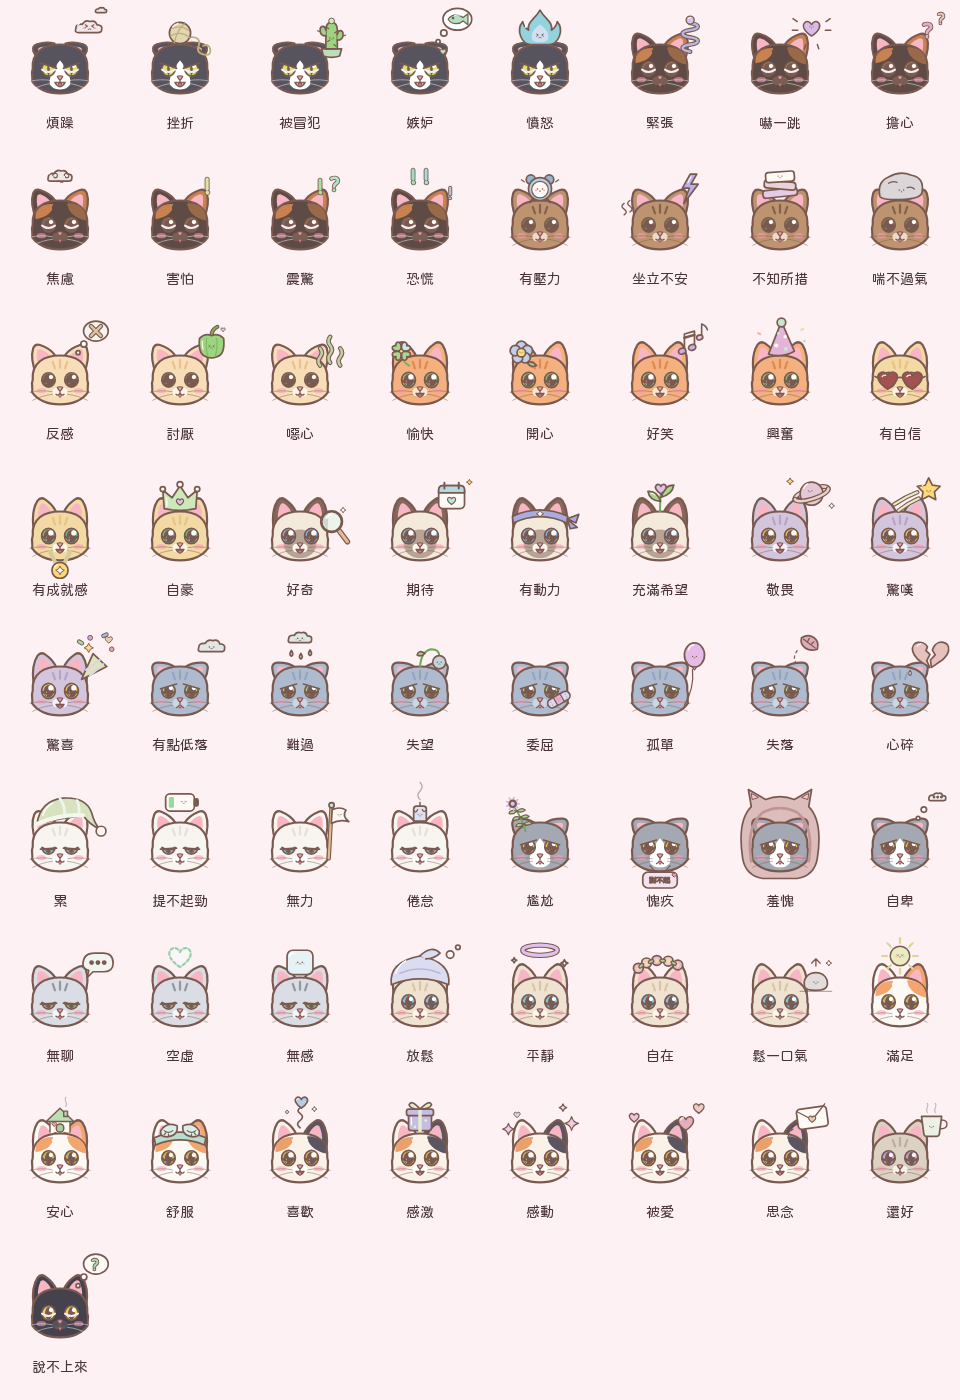
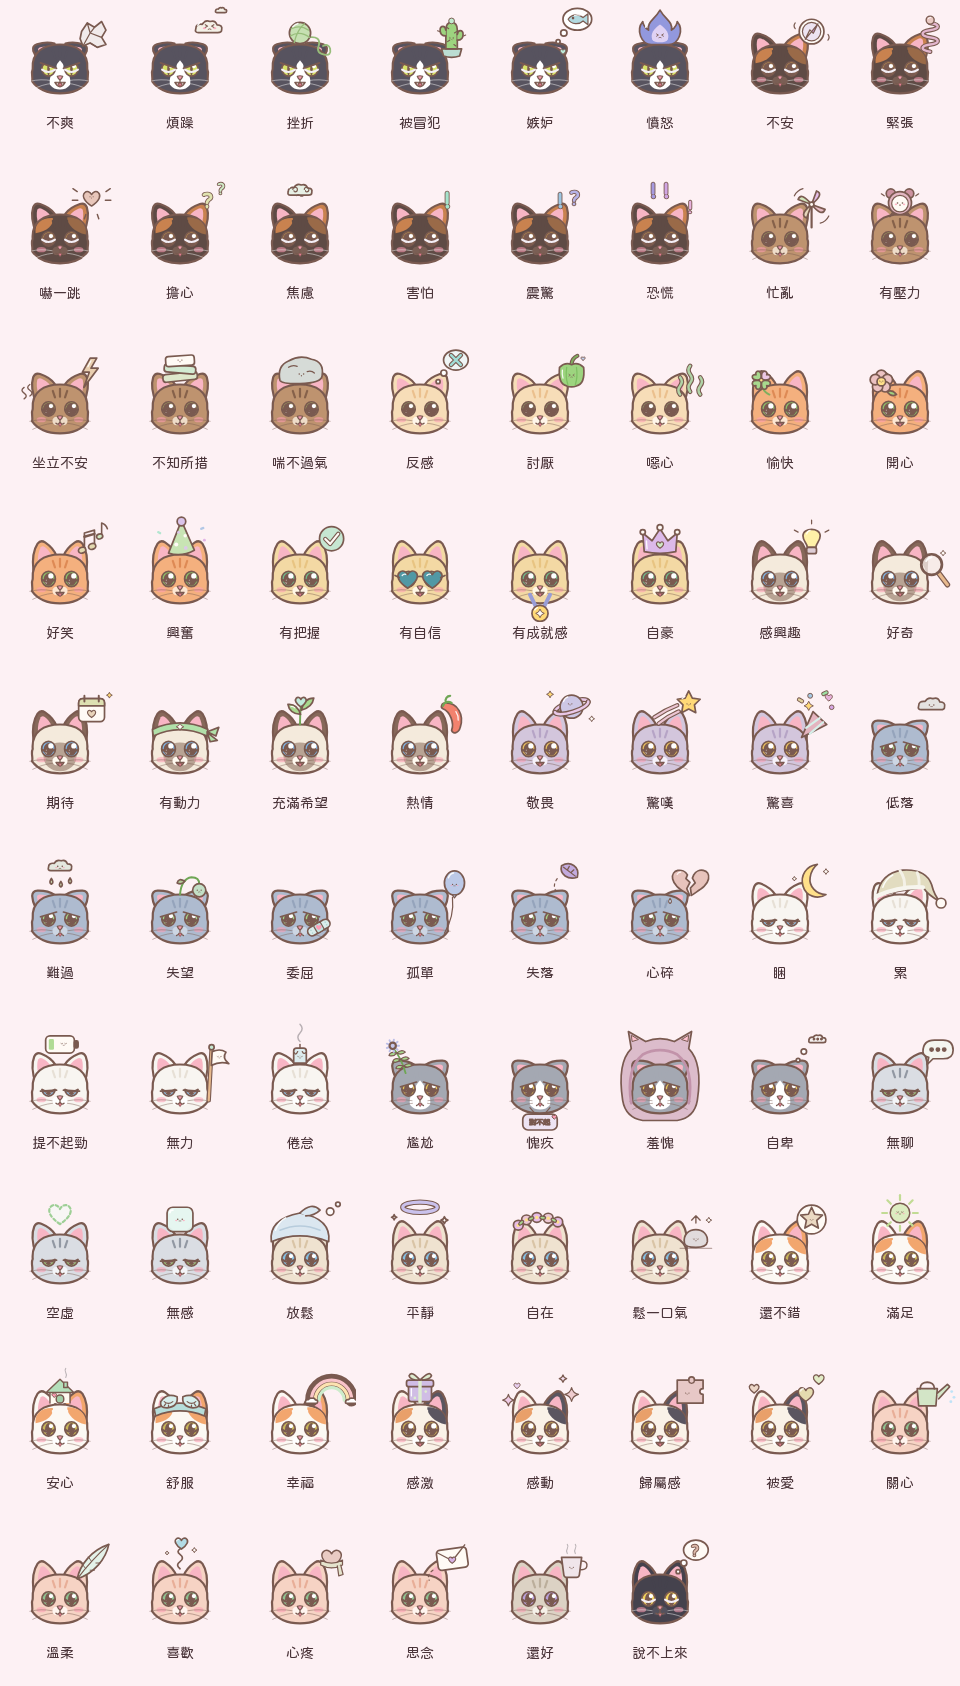
feat: add care family and milder feeling words

diff --git a/index.html b/index.html
@@ -1131,6 +1131,7 @@
           "id": "anger",
           "label": { "zh": "生氣", "en": "Anger" },
           "emotions": [
+            { "id": "irked", "label": { "zh": "不爽", "en": "Irked" }, "desc": "心裡不太痛快", "valence": -0.3, "arousal": 0.3 },
             { "id": "irritated", "label": { "zh": "煩躁", "en": "Irritated" }, "desc": "毛毛躁躁，一碰就炸", "valence": -0.4, "arousal": 0.5 },
             { "id": "frustrated", "label": { "zh": "挫折", "en": "Frustrated" }, "desc": "一股氣悶著，出不去", "valence": -0.6, "arousal": 0.5 },
             { "id": "offended", "label": { "zh": "被冒犯", "en": "Offended" }, "desc": "像被刺了一下", "valence": -0.6, "arousal": 0.6 },
@@ -1142,6 +1143,7 @@
           "id": "fear",
           "label": { "zh": "害怕", "en": "Fear" },
           "emotions": [
+            { "id": "uneasy", "label": { "zh": "不安", "en": "Uneasy" }, "desc": "隱隱約約的不踏實", "valence": -0.3, "arousal": 0.3 },
             { "id": "nervous", "label": { "zh": "緊張", "en": "Nervous" }, "desc": "緊繃，一刻都放不鬆", "valence": -0.3, "arousal": 0.6 },
             { "id": "startled", "label": { "zh": "嚇一跳", "en": "Startled" }, "desc": "突然被驚動", "valence": -0.4, "arousal": 0.8 },
             { "id": "worried", "label": { "zh": "擔心", "en": "Worried" }, "desc": "懸著，放不下", "valence": -0.5, "arousal": 0.4 },
@@ -1155,6 +1157,7 @@
           "id": "stress",
           "label": { "zh": "壓力", "en": "Stress" },
           "emotions": [
+            { "id": "busy", "label": { "zh": "忙亂", "en": "Hectic" }, "desc": "轉個不停", "valence": -0.2, "arousal": 0.4 },
             { "id": "pressured", "label": { "zh": "有壓力", "en": "Pressured" }, "desc": "像扛著重重的東西", "valence": -0.4, "arousal": 0.6 },
             { "id": "restless", "label": { "zh": "坐立不安", "en": "Restless" }, "desc": "坐也不是，站也不是", "valence": -0.3, "arousal": 0.7 },
             { "id": "overwhelmed", "label": { "zh": "不知所措", "en": "Overwhelmed" }, "desc": "亂糟糟的，快滿出來", "valence": -0.7, "arousal": 0.7 },
@@ -1191,6 +1194,7 @@
           "id": "confidence",
           "label": { "zh": "自信", "en": "Confidence" },
           "emotions": [
+            { "id": "assured", "label": { "zh": "有把握", "en": "Assured" }, "desc": "心裡有數", "valence": 0.4, "arousal": 0.3 },
             { "id": "confident", "label": { "zh": "有自信", "en": "Confident" }, "desc": "穩穩的，有底氣", "valence": 0.6, "arousal": 0.4 },
             { "id": "accomplished", "label": { "zh": "有成就感", "en": "Accomplished" }, "desc": "充實、有份量", "valence": 0.8, "arousal": 0.5 },
             { "id": "proud", "label": { "zh": "自豪", "en": "Proud" }, "desc": "覺得光榮", "valence": 0.8, "arousal": 0.6 }
@@ -1200,10 +1204,12 @@
           "id": "engagement",
           "label": { "zh": "投入", "en": "Engagement" },
           "emotions": [
+            { "id": "interested", "label": { "zh": "感興趣", "en": "Interested" }, "desc": "被吸引住了", "valence": 0.3, "arousal": 0.3 },
             { "id": "curious", "label": { "zh": "好奇", "en": "Curious" }, "desc": "想湊近看看，想知道更多", "valence": 0.5, "arousal": 0.5 },
             { "id": "anticipating", "label": { "zh": "期待", "en": "Looking forward" }, "desc": "雀躍，等不及了", "valence": 0.6, "arousal": 0.5 },
             { "id": "motivated", "label": { "zh": "有動力", "en": "Motivated" }, "desc": "躍躍欲試", "valence": 0.6, "arousal": 0.6 },
-            { "id": "hopeful", "label": { "zh": "充滿希望", "en": "Hopeful" }, "desc": "有一點光透進來", "valence": 0.6, "arousal": 0.3 }
+            { "id": "hopeful", "label": { "zh": "充滿希望", "en": "Hopeful" }, "desc": "有一點光透進來", "valence": 0.6, "arousal": 0.3 },
+            { "id": "passionate", "label": { "zh": "熱情", "en": "Passionate" }, "desc": "熱騰騰的，全心投入", "valence": 0.7, "arousal": 0.8 }
           ]
         },
         {
@@ -1226,7 +1232,7 @@
           "id": "sadness",
           "label": { "zh": "悲傷", "en": "Sadness" },
           "emotions": [
-            { "id": "down", "label": { "zh": "有點低落", "en": "A bit down" }, "desc": "情緒往下掉了一點", "valence": -0.3, "arousal": -0.2 },
+            { "id": "down", "label": { "zh": "低落", "en": "Low" }, "desc": "情緒往下掉了一點", "valence": -0.3, "arousal": -0.2 },
             { "id": "sad", "label": { "zh": "難過", "en": "Sad" }, "desc": "沉甸甸的，很傷心", "valence": -0.7, "arousal": -0.3 },
             { "id": "disappointed", "label": { "zh": "失望", "en": "Disappointed" }, "desc": "一下子洩了氣", "valence": -0.6, "arousal": -0.2 },
             { "id": "wronged", "label": { "zh": "委屈", "en": "Wronged" }, "desc": "受了傷，又說不出口", "valence": -0.7, "arousal": -0.1 },
@@ -1239,6 +1245,7 @@
           "id": "exhaustion",
           "label": { "zh": "疲憊", "en": "Exhaustion" },
           "emotions": [
+            { "id": "sleepy", "label": { "zh": "睏", "en": "Sleepy" }, "desc": "只想睡一覺", "valence": -0.1, "arousal": -0.5 },
             { "id": "tired", "label": { "zh": "累", "en": "Tired" }, "desc": "沒有力氣，想休息", "valence": -0.3, "arousal": -0.7 },
             { "id": "unmotivated", "label": { "zh": "提不起勁", "en": "Unmotivated" }, "desc": "懶洋洋，動不起來", "valence": -0.4, "arousal": -0.6 },
             { "id": "helpless", "label": { "zh": "無力", "en": "Helpless" }, "desc": "有心無力", "valence": -0.7, "arousal": -0.6 },
@@ -1285,19 +1292,31 @@
           "id": "contentment",
           "label": { "zh": "滿足", "en": "Contentment" },
           "emotions": [
+            { "id": "alright", "label": { "zh": "還不錯", "en": "Alright" }, "desc": "小小的滿意", "valence": 0.3, "arousal": -0.1 },
             { "id": "content", "label": { "zh": "滿足", "en": "Content" }, "desc": "剛剛好，很飽足", "valence": 0.7, "arousal": -0.3 },
             { "id": "secure", "label": { "zh": "安心", "en": "Secure" }, "desc": "踏實，很放心", "valence": 0.6, "arousal": -0.5 },
-            { "id": "comfortable", "label": { "zh": "舒服", "en": "Comfortable" }, "desc": "暖呼呼的，很舒適", "valence": 0.5, "arousal": -0.5 }
+            { "id": "comfortable", "label": { "zh": "舒服", "en": "Comfortable" }, "desc": "暖呼呼的，很舒適", "valence": 0.5, "arousal": -0.5 },
+            { "id": "happiness", "label": { "zh": "幸福", "en": "Happy inside" }, "desc": "整個世界都柔和了", "valence": 0.95, "arousal": -0.2 }
           ]
         },
         {
           "id": "connection",
           "label": { "zh": "連結", "en": "Connection" },
           "emotions": [
-            { "id": "fond", "label": { "zh": "喜歡", "en": "Fond" }, "desc": "甜甜的，有好感", "valence": 0.7, "arousal": 0.2 },
             { "id": "grateful", "label": { "zh": "感激", "en": "Grateful" }, "desc": "溫暖，想說聲謝謝", "valence": 0.7, "arousal": -0.1 },
             { "id": "touched", "label": { "zh": "感動", "en": "Touched" }, "desc": "被輕輕碰到最軟的地方", "valence": 0.7, "arousal": 0.1 },
-            { "id": "loved", "label": { "zh": "被愛", "en": "Loved" }, "desc": "被在乎、被接住", "valence": 0.9, "arousal": -0.1 },
+            { "id": "belonging", "label": { "zh": "歸屬感", "en": "Belonging" }, "desc": "有一個屬於自己的位置", "valence": 0.7, "arousal": -0.2 },
+            { "id": "loved", "label": { "zh": "被愛", "en": "Loved" }, "desc": "被在乎、被接住", "valence": 0.9, "arousal": -0.1 }
+          ]
+        },
+        {
+          "id": "care",
+          "label": { "zh": "在乎", "en": "Care" },
+          "emotions": [
+            { "id": "caring", "label": { "zh": "關心", "en": "Caring" }, "desc": "放在心上，想知道對方好不好", "valence": 0.5, "arousal": 0.1 },
+            { "id": "gentle", "label": { "zh": "溫柔", "en": "Tender" }, "desc": "輕輕的、軟軟的", "valence": 0.6, "arousal": -0.4 },
+            { "id": "fond", "label": { "zh": "喜歡", "en": "Fond" }, "desc": "甜甜的，有好感", "valence": 0.7, "arousal": 0.2 },
+            { "id": "heartache", "label": { "zh": "心疼", "en": "Aching for someone" }, "desc": "看著對方難受，自己也跟著痛", "valence": -0.1, "arousal": -0.1 },
             { "id": "longing", "label": { "zh": "思念", "en": "Longing" }, "desc": "掛念著，又甜又酸", "valence": 0.1, "arousal": -0.3 }
           ]
         }
@@ -1332,6 +1351,36 @@ const MEOW_CLIPS = [
 // 畫面上的中文照這張對照表換成英文；之後才出現的字（對話、日曆…）也會自動換。
 // 情緒詞的英文直接用 mood.json 裡的 label.en；你自己寫的心情內容不會被翻譯。
 const EN = {
+  "心裡不太痛快": "Not quite pleased",
+  "隱隱約約的不踏實": "A faint unsettled feeling",
+  "轉個不停": "Spinning nonstop",
+  "只想睡一覺": "Just want to sleep",
+  "心裡有數": "I know where I stand",
+  "被吸引住了": "Drawn in",
+  "熱騰騰的，全心投入": "Fired up, all in",
+  "小小的滿意": "A little satisfied",
+  "整個世界都柔和了": "The whole world feels soft",
+  "有一個屬於自己的位置": "Having a place of my own",
+  "放在心上，想知道對方好不好": "Holding someone in mind, wondering how they are",
+  "輕輕的、軟軟的": "Light and soft",
+  "看著對方難受，自己也跟著痛": "Hurting along with someone who's hurting",
+  "揉皺的紙團": "Crumpled paper",
+  "晃動的指南針": "Wobbly compass",
+  "轉不停的小風車": "Spinning pinwheel",
+  "小月亮": "Little moon",
+  "勾勾": "Check mark",
+  "小燈泡": "Light bulb",
+  "小辣椒": "Little chili",
+  "星星貼紙": "Star sticker",
+  "小彩虹": "Little rainbow",
+  "拼上的拼圖": "Fitting puzzle piece",
+  "小澆水壺": "Watering can",
+  "羽毛": "Feather",
+  "圍著圍巾的心": "Heart in a scarf",
+  "蜜桃": "Peach",
+  "好有歸屬感": "I belong here",
+  "好在乎…": "I care so much…",
+  "想守護": "I want to protect",
   "哪一類？": "Which kind?",
   "自己的詞": "My own words",
   "＋ 寫下自己的詞": "+ Write my own word",
@@ -1850,7 +1899,7 @@ const MOODS = {
              acts: { walk: 4, sit: 1, groom: 1 }, speed: 80 },
 };
 const CALICO_DARK = "#5A5560", CALICO_ORANGE = "#E9A06A";
-// ---------- 花色：17 種，按情緒家族決定 ----------
+// ---------- 花色：18 種，按情緒家族決定 ----------
 // fur 底色、stripe 虎斑紋（跟 fur 一樣就是沒有斑紋）、chest 胸口和嘴邊、eye 眼睛
 // patches：兩塊斑（三花、玳瑁、橘白）、earR：右耳的顏色、point：暹羅的重點色（耳朵、臉、腳、尾巴）
 // muzzle：白色嘴套、paw：腳的顏色、whisker／eyeLine：深色毛的貓用淺色鬍鬚和眼線
@@ -1871,6 +1920,7 @@ const COATS = {
   cream:      { name: "奶油", fur: "#F7DDB8", stripe: "#EBC08E", chest: "#FFF6EA", eye: "#9FC27A" },
   taro:       { name: "芋頭", fur: "#D3C6DC", stripe: "#B6A4C6", chest: "#F6F1F9", eye: "#EDC45E" },
   oat:        { name: "燕麥", fur: "#DCD2C4", stripe: "#BBAE9B", chest: "#F5F0E8", eye: "#B9A0D8" },
+  peach:      { name: "蜜桃", fur: "#F6D3C4", stripe: "#E8AE98", chest: "#FFF5EF", eye: "#8FC08F" },
   black:      { name: "煤球", fur: "#45424D", stripe: "#45424D", chest: "#55525D", eye: "#F0D25C", whisker: "#fff", eyeLine: "#F3EEF5" },
 };
 const coatOf = k => COATS[k] || MOODS[k] || COATS.calm;
@@ -1879,7 +1929,7 @@ const recCoat = r => FAMILY_COAT[typeof EMO !== "undefined" && EMO[emoOf(r)[0]]?
 const emoCoat = id => FAMILY_COAT[EMO[id]?.family] || "calm";
 const FAMILY_COAT = { joy: "happy", confidence: "goldie", engagement: "siamese", connection: "anxious", calm: "calm", contentment: "orangewhite",
   sadness: "sad", exhaustion: "tired", self_conscious: "graywhite", numbness: "silver", anger: "angry", fear: "tortie", stress: "brown", unsure: "black",
-  disgust: "cream", wonder: "taro", neutral: "oat" };
+  disgust: "cream", wonder: "taro", neutral: "oat", care: "peach" };
 
 // 頭的位置（各個姿勢）：x, y 位移與旋轉角度（以頭中心 100,42 為軸）
 // 胖胖版的頭：以下巴 (100, 58) 為中心放大 1.16 倍，再往下 7
@@ -2366,12 +2416,61 @@ const ACC = {
   okay: h => `<g ${AK()}><path d="M115 13 H129 L127.4 25.4 Q127 27 125.4 27 H118.6 Q117 27 116.6 25.4Z" fill="${hsl(h, 45, 90)}"/>
     <path d="M129 15.6 Q133.4 15.6 132.6 19.4 Q132 22 128.2 21.6" fill="none" stroke-width="1.2"/></g>${miniFace(122, 20, .55, "flat", false)}
     <path d="M119 10.4 q-1 -2 0 -3.4 q1 -1.6 0 -3 M124.6 10.4 q-1 -2 0 -3.4 q1 -1.6 0 -3" fill="none" stroke="#bdb5b8" stroke-width=".9" stroke-linecap="round"/>`,
+  // 新增的淡的詞、在乎
+  // 不爽：揉皺的紙團
+  irked: h => `<g ${AK()}><path d="M115 16 L119 10 L124 13 L129 9 L132 15 L129 20 L132 25 L126 27 L121 24 L116 26 L114 21Z" fill="${hsl(h, 30, 92)}"/>
+    <path d="M119 10 L121 17 L129 20 M124 13 L121 17 L116 26 M126 27 L121 24" fill="none" stroke-width="1"/></g>`,
+  // 不安：晃來晃去的指南針
+  uneasy: h => `<g ${AK()}><circle cx="122" cy="16" r="8.6" fill="#fffaf5"/><circle cx="122" cy="16" r="6.4" fill="${hsl(h, 50, 90)}" stroke-width="1"/>
+    <path d="M122 16 L126.4 10.6 L123.2 17.2Z" fill="${hsl(h, 80, 70)}" stroke-width="1"/><path d="M122 16 L117.6 21.4 L120.8 14.8Z" fill="#fffaf5" stroke-width="1"/></g>
+    <path d="M110.6 10 q-1.6 2 0 4 M133.4 18 q1.6 2 0 4" fill="none" ${AK(1)}/>`,
+  // 忙亂：轉不停的小風車
+  busy: h => `<g ${AK()}><path d="M122 18 L122 34" fill="none" stroke-width="1.8"/>
+    ${[0, 90, 180, 270].map((r, i) => `<path d="M122 18 L122 8 Q128 8 122 18Z" fill="${hsl(h + i * 50, 75, 78)}" transform="rotate(${r + 20} 122 18)"/>`).join("")}
+    <circle cx="122" cy="18" r="1.6" fill="#fffaf5"/></g><path d="M110 12 q2 -4 6 -5 M134 26 q-2 4 -6 5" fill="none" ${AK(1)}/>`,
+  // 睏：一彎小月亮
+  sleepy: h => `<g ${AK()}><path d="M126 4 C118 5 114 12 116 19 C118 26 126 29 132 25 C125 25 120 19 121 13 C121.6 9 123.4 6 126 4Z" fill="#ffe08a"/></g>
+    ${sparkle(132, 9, .5, "#fffaf5").replace("<path", `<path ${AK(.8)}`)}${sparkle(110, 14, .4, "#fffaf5").replace("<path", `<path ${AK(.8)}`)}`,
+  // 有把握：一個勾勾
+  assured: h => `<g ${AK()}><circle cx="122" cy="14" r="8.4" fill="${hsl(h, 65, 80)}"/></g>
+    <path d="M117.6 14.2 L121 17.6 L126.6 10.6" fill="none" stroke="#4a3439" stroke-width="3.6" stroke-linecap="round" stroke-linejoin="round"/>
+    <path d="M117.6 14.2 L121 17.6 L126.6 10.6" fill="none" stroke="#fffaf5" stroke-width="1.8" stroke-linecap="round" stroke-linejoin="round"/>`,
+  // 感興趣：亮起來的小燈泡
+  interested: h => `<g ${AK()}><path d="M116 12 C116 6 128 6 128 12 C128 16 125 17 125 20 H119 C119 17 116 16 116 12Z" fill="#fff1a8"/>
+    <rect x="118.6" y="20" width="6.8" height="4.4" rx="1.4" fill="${hsl(h, 30, 80)}"/></g>
+    <path d="M110 8 L112.6 9.4 M134 8 L131.4 9.4 M122 1 V3.6" fill="none" ${AK(1)}/>${shine("M118.6 10.6 Q119 8.6 121 8.2", 1)}`,
+  // 熱情：一根小辣椒
+  passionate: h => `<g ${AK()}><path d="M118 10 C126 10 131 18 128 27 C127 31 123 32 122 29 C124 24 121 16 116 14 C114 13 115 10 118 10Z" fill="#f2826e"/>
+    <path d="M118 10 C117 7 119 5 121 5 M116 12 C117 9 120 8.6 122 10" fill="none" stroke="#6fa655" stroke-width="1.8"/></g>${shine("M125 16 Q127 19 126.6 22", 1)}`,
+  // 還不錯：小星星貼紙
+  alright: h => { const st = [...Array(10)].map((_, i) => { const a = (i * 36 - 90) * Math.PI / 180, r = i % 2 ? 3.8 : 8; return `${i ? "L" : "M"}${(122 + r * Math.cos(a)).toFixed(1)} ${(14 + r * Math.sin(a)).toFixed(1)}`; }).join(" ") + "Z";
+    return `<g ${AK()}><circle cx="122" cy="14.6" r="10" fill="#fffaf5"/><path d="${st}" fill="${hsl(h, 80, 80)}"/></g>${miniFace(122, 14.6, .45, "smile", false)}`; },
+  // 幸福：一道小彩虹
+  happiness: h => `<g fill="none" stroke-linecap="round">
+    <path d="M108 22 A14 14 0 0 1 136 22" stroke="#4a3439" stroke-width="10.4"/>
+    <path d="M108 22 A14 14 0 0 1 136 22" stroke="#f9c4c9" stroke-width="2.6"/><path d="M110.6 22 A11.4 11.4 0 0 1 133.4 22" stroke="#fde2b0" stroke-width="2.6"/>
+    <path d="M113.2 22 A8.8 8.8 0 0 1 130.8 22" stroke="#cdeccb" stroke-width="2.6"/></g>
+    <g ${AK()}><path d="${cloudPath(108, 23, .42)}" fill="#fff"/><path d="${cloudPath(136, 23, .42)}" fill="#fff"/></g>`,
+  // 歸屬感：剛好拼上的拼圖
+  belonging: h => `<g ${AK()}><path d="M112 8 H120 C120 5 124 5 124 8 H130 V14 C127 14 127 18 130 18 V24 H112Z" fill="${hsl(h, 65, 80)}"/>
+    <path d="M124 8 C124 11 120 11 120 8" fill="none" stroke-width="1"/></g>${miniFace(119, 17, .55, "smile", false)}`,
+  // 關心：小澆水壺
+  caring: h => `<g ${AK()}><path d="M112 14 H126 L125 26 H113Z" fill="${hsl(h, 60, 80)}"/><path d="M126 17 L133 11 L134.6 12.6 L127 21" fill="${hsl(h, 60, 80)}"/>
+    <path d="M114 14 C114 8 124 8 124 14" fill="none" stroke-width="1.6"/></g>
+    <g fill="#bfe3f7" stroke="none"><circle cx="136" cy="16" r="1"/><circle cx="137.6" cy="20" r="1"/><circle cx="135.4" cy="23" r="1"/></g>`,
+  // 溫柔：一根輕輕的羽毛
+  gentle: h => `<g ${AK()}><path d="M112 28 C114 18 122 8 134 4 C132 14 124 24 112 28Z" fill="${hsl(h, 55, 90)}"/>
+    <path d="M112 28 C118 20 124 13 134 4" fill="none" stroke-width="1"/>
+    <path d="M118 21 L115.6 18 M122 16 L119.8 12.8 M121 22 L124 22 M125 17 L128 17" fill="none" stroke-width=".8"/></g>`,
+  // 心疼：圍著圍巾的心
+  heartache: h => `<path ${AK(1.2)} d="${heartPath(122, 14, 1.9)}" fill="${hsl(335 + h % 40, 75, 80)}"/>
+    <g ${AK(1)}><path d="M114.4 15 Q122 19 129.6 15 L129.6 18.4 Q122 22.4 114.4 18.4Z" fill="${hsl(h + 180, 50, 82)}"/><path d="M126 19 L127 26 L130 25 L128.4 18.4" fill="${hsl(h + 180, 50, 82)}"/></g>`,
   unsure: h => `<g ${AK()}><circle cx="112.6" cy="23" r="1.4" fill="#fff"/><circle cx="116.6" cy="17" r="2.1" fill="#fff"/><ellipse cx="125" cy="8" rx="8.6" ry="7" fill="#fffaf5"/></g>${puffy(125, 12, "?", 10, hsl(h, 70, 72))}${shine("M119.4 6 Q120 3.6 122.4 3")}`,
 };
 // 家族（舊記錄用）→ 代表的配件
 const FAMILY_ACC = { anger: "offended", fear: "nervous", stress: "pressured", joy: "happy", confidence: "proud", engagement: "curious",
   sadness: "sad", exhaustion: "tired", self_conscious: "embarrassed", numbness: "numb", calm: "peaceful", contentment: "content", connection: "loved",
-  disgust: "dislike", wonder: "amazed", neutral: "okay" };
+  disgust: "dislike", wonder: "amazed", neutral: "okay", care: "caring" };
 // 插畫風：貓咪和配件的線條換成溫暖的棕色、細一點（跟房間家具同一種畫風）
 const ACC_LINE = "#7a5a50";
 const illus = svg => svg.replace(/#4a3439/gi, ACC_LINE).replace(/stroke-width="([\d.]+)"/g, (m, w) => `stroke-width="${(+w * .85).toFixed(2)}"`);
@@ -2398,7 +2497,8 @@ const ACC_NAME = {
   grateful: "禮物", touched: "閃閃", loved: "愛心", unsure: "問號泡泡",
   averse: "叉叉泡泡", dislike: "青椒", disgusted: "怪味道", awe: "小星球", amazed: "流星", pleasantly_surprised: "拉炮",
   startled: "跳起來的心", shocked: "驚嘆號和問號", suffocated: "大石頭", cheerful: "四葉草", anticipating: "圈起來的日子",
-  down: "小烏雲", heartbroken: "裂開的心", relieved: "放下的石頭", fond: "愛心天線", longing: "一封信", okay: "一杯溫開水",
+  down: "小烏雲", irked: "揉皺的紙團", uneasy: "晃動的指南針", busy: "轉不停的小風車", sleepy: "小月亮", assured: "勾勾",
+  interested: "小燈泡", passionate: "小辣椒", alright: "星星貼紙", happiness: "小彩虹", belonging: "拼上的拼圖", caring: "小澆水壺", gentle: "羽毛", heartache: "圍著圍巾的心", heartbroken: "裂開的心", relieved: "放下的石頭", fond: "愛心天線", longing: "一封信", okay: "一杯溫開水",
 };
 const accName = id => ACC_NAME[id] || ACC_NAME[FAMILY_ACC[id]] || ACC_NAME[FAMILY_ACC[EMO[id]?.family]] || "";
 // 沒有存顏色的舊記錄：用內容算出一個固定的顏色
@@ -3185,7 +3285,8 @@ const FAMILY_TALK = {
   numbness: ["什麼都感覺不到", "空空的", "好無聊…"],
   calm: ["好平靜", "好放鬆～", "靜靜的"],
   contentment: ["好滿足～", "好安心", "好舒服～"],
-  connection: ["心裡暖暖的", "好感動…", "想念…"],
+  connection: ["心裡暖暖的", "好感動…", "好有歸屬感"],
+  care: ["好在乎…", "想守護", "想念…"],
   disgust: ["好討厭…", "噁——", "不想靠近"],
   wonder: ["哇——", "不可思議…", "沒想到！"],
   neutral: ["還好", "普普通通", "平平的"],
@@ -3931,7 +4032,7 @@ const FAMILY_FACE = {
   joy: "happy", confidence: "happy", engagement: "happy",
   sadness: "sad", exhaustion: "tired", self_conscious: "sad", numbness: "tired",
   calm: "calm", contentment: "calm", connection: "happy",
-  disgust: "anxious", wonder: "happy", neutral: "calm",
+  disgust: "anxious", wonder: "happy", neutral: "calm", care: "calm",
 };
 const QUAD_FACE = { high_unpleasant: "angry", high_pleasant: "happy", low_unpleasant: "sad", low_pleasant: "calm" };
 const EMO = {};

diff --git a/sw.js b/sw.js
@@ -1,6 +1,6 @@
 // 心情草原的 service worker：讓網頁可以安裝成 app、沒有網路時也打得開
 // 改了網頁或圖示之後，把版本號加一，使用者下次打開就會換成新版
-const CACHE = "mood-meadow-v31";
+const CACHE = "mood-meadow-v32";
 const CORE = ["./", "index.html", "manifest.webmanifest", "icons/icon-192.png", "icons/icon-512.png",
   "icons/icon-maskable-512.png", "icons/apple-touch-icon.png", "icons/favicon-32.png"];
 
